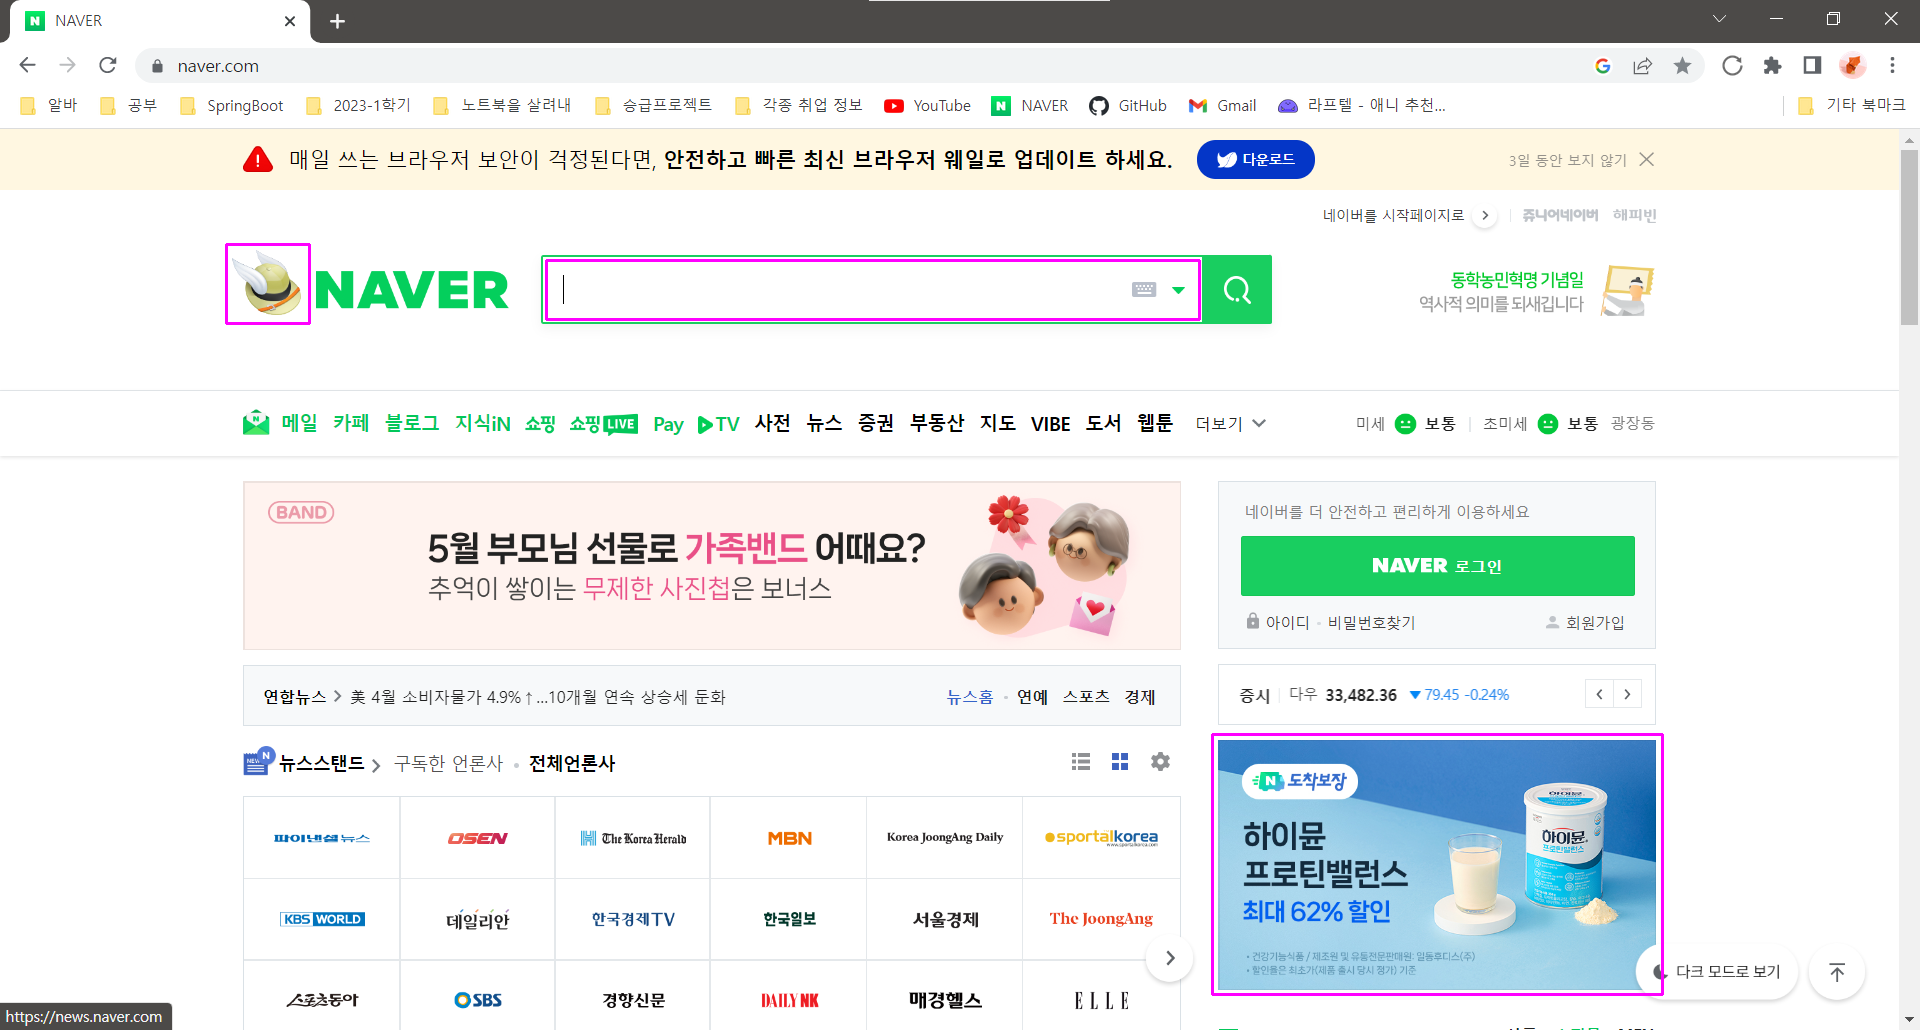
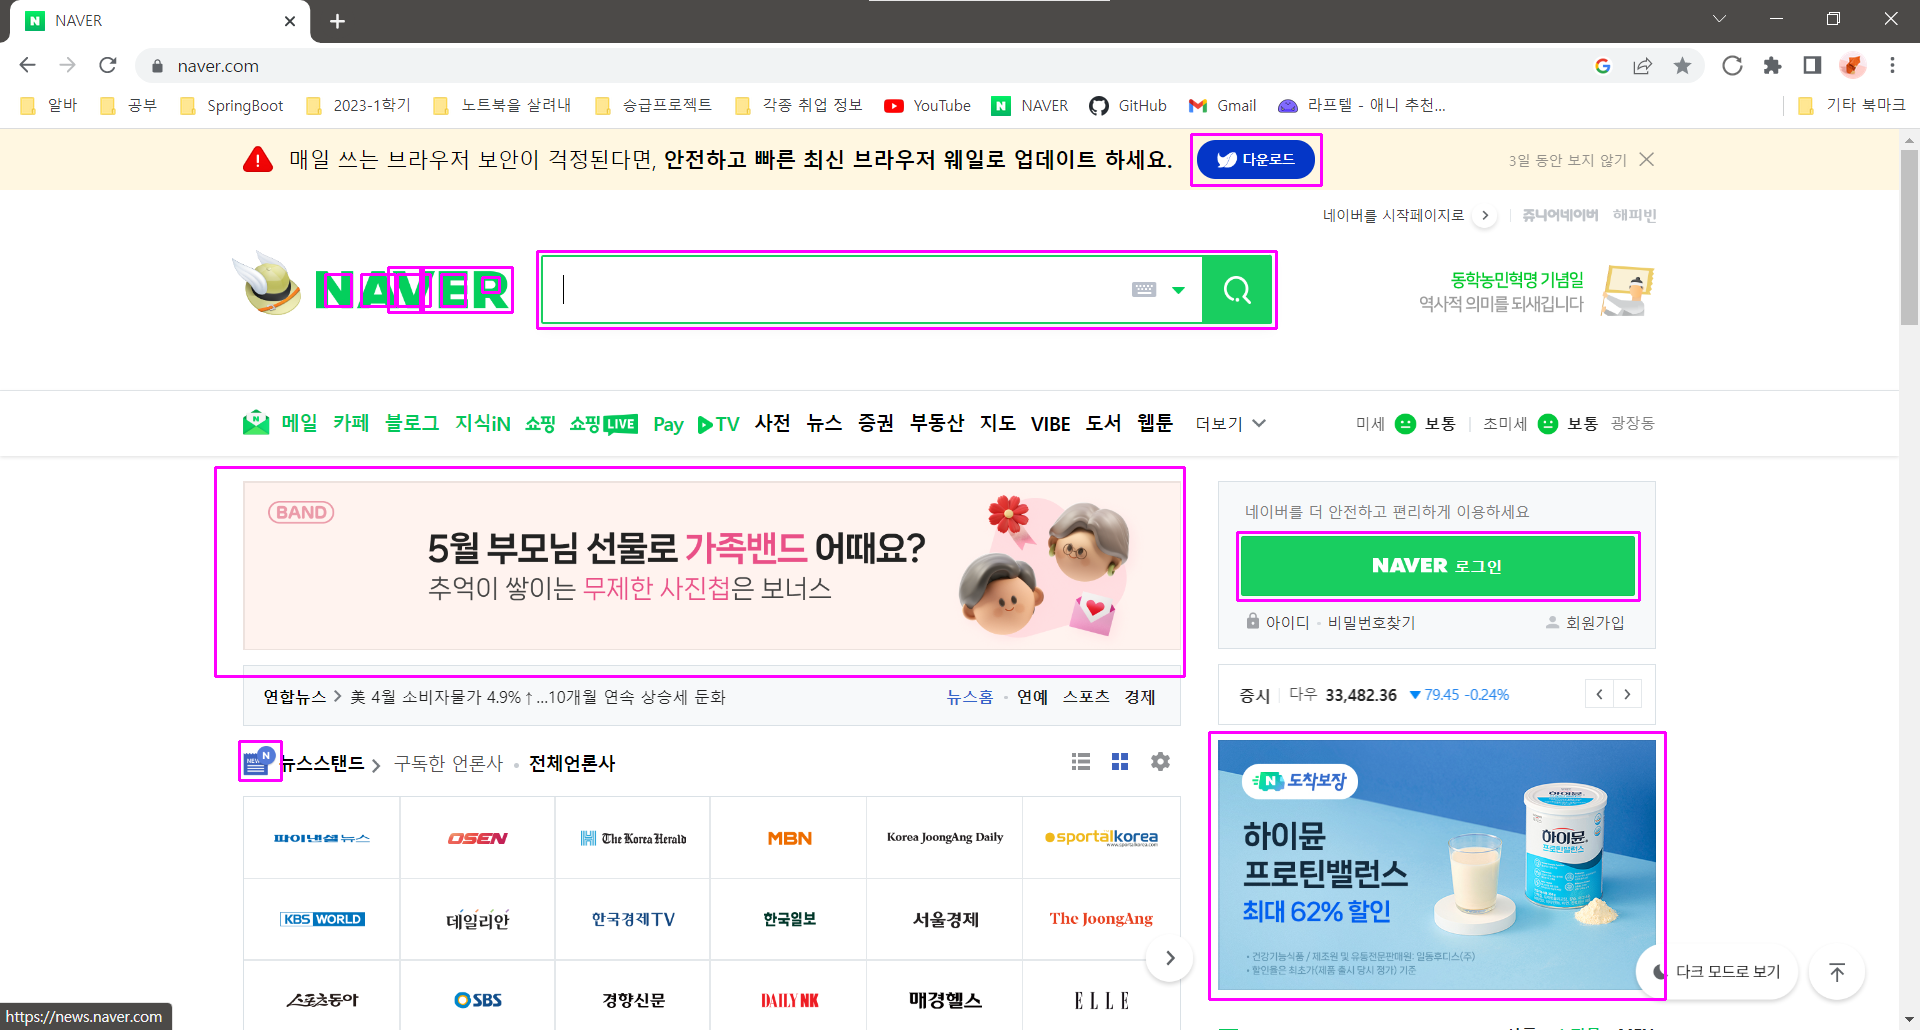
refactor : 이미지 유사도 관련 내용, 일부 오타 수정 등
- 이미지 유사도 성능을 일부 개선했습니다. 파라미터를 조정하는것만으로도 충분히 효과적인 결과를 낼 수 있었습니다. 다만, 사각형이 조금 많이 그려지는 경향이 있는데 이는 시간이 나면 수정하겠습니다.
- 이미지 유사도 결과가 지나치게 높게 나오는 것을 수정했습니다.
- login api에 일부 오타가 있어서 수정했습니다. (명세서와 다른 부분)
- 로그인 관련 내용을 DB에 담을 수 있게 수정했습니다.

diff --git a/server/apis/image_similarity_visual.py b/server/apis/image_similarity_visual.py
@@ -7,14 +7,18 @@ from skimage.metrics import structural_similarity as ssim
 from flask import request, send_file, jsonify, url_for
 from flask_restx import Namespace, Resource
 from werkzeug.utils import secure_filename
-import module.error_handler
 
+import module.error_handler
+import math
 import cv2
 import numpy as np
 import os
 
+def score_remix(_score):
+    return math.pow(_score, 4)
+
 compare = Namespace(name='compare', description="이미지 비교")
-     
+
 @compare.route('')
 class compare_image(Resource):
     def post(self):
@@ -47,12 +51,15 @@ class compare_image(Resource):
             # Compute the Structural Similarity Index (SSIM) between the two images, ensuring that the difference image is returned
             (score, diff) = ssim(grayA, grayB, full=True)
             diff = (diff * 255).astype("uint8")
-
+            
             # print only the score if you want
-            # print("SSIM: {}".format(score))
+            print("SSIM: {}".format(score))
+            
+            # 점수를 다시 정규화, result를 최종적으로 전송한다.
+            result = score_remix(score)
 
             # 이진화
-            thresh = cv2.threshold(diff, 100, 255, cv2.THRESH_BINARY_INV)[1]
+            thresh = cv2.threshold(diff, 0, 200, cv2.THRESH_BINARY_INV|cv2.THRESH_OTSU)[1]
 
             # get contours : 윤곽 잡기 -> 검은색 바탕에서 하얀색 물체 찾기
             cnts = cv2.findContours(thresh.copy(), cv2.RETR_EXTERNAL, cv2.CHAIN_APPROX_SIMPLE)
@@ -61,7 +68,7 @@ class compare_image(Resource):
             # 사각형 그리기
             for c in cnts:
                 area = cv2.contourArea(c)                           # contour의 영역 계산
-                if area > 50:                                       # count 값이 작으면 무시, 크면 박스 생성
+                if area > 40:                                       # count 값이 작으면 무시, 크면 박스 생성
                     x, y, w, h = cv2.boundingRect(c)
                     cv2.rectangle(problem, (x, y), (x + w, y + h), (255, 0, 255), 2)
                     cv2.rectangle(submit, (x, y), (x + w, y + h), (255, 0, 255), 2)
@@ -76,5 +83,5 @@ class compare_image(Resource):
             
         return jsonify({
             "image" : image_url,
-            "score" : score
+            "score" : result
         })

diff --git a/server/apis/problem.py b/server/apis/problem.py
@@ -187,8 +187,8 @@ class problem_submit(Resource):
         html_code = request.form['html_code']
         css_code = request.form['css_code']
         js_code = request.form['js_code']
-        problem_id = session.get('problem_id')          # 세션에 저장된 problem_id
-        user_id = "WinterHana"                          # 로그인 완전히 구현될 때까지 이 이름으로 고정
+        problem_id = session.get('problem_id')              # 세션에 저장된 problem_id
+        user_id = session['id']                             # 로그인 완전히 구현될 때까지 이 이름으로 고정
         submission_date = datetime.date.today()
         
         # 2. 이미지 유사도 결과를 가져오고 성공과 실패 여부를 확인한다.
@@ -208,11 +208,15 @@ class problem_submit(Resource):
             return result
         
         # 이미지 유사도 성공 / 실패 판단하기
-        if(score > 0.98): success = True
-        else: success = False
+        if(score > 0.98): 
+            success = True
+            fail_reason = '없음'
+        else: 
+            success = False
+            fail_reason = '이미지 유사도'
         
         # 3. 실패 이유를 서술한다.
-        fail_reason = '미정'
+        
         
         # 4. lighthouse_report에 코드를 전달해서 결과값을 가져온다.
         try:

diff --git a/server/apis/auth.py b/server/apis/auth.py
@@ -9,7 +9,7 @@ import module.error_handler
 
 bp = Blueprint('auth', __name__, url_prefix='/auth')
 
-@bp.route('/signup/', methods=['POST'])
+@bp.route('/signup', methods=['POST'])
 def signup():
     if request.method == 'POST':
         id = request.form['id']
@@ -40,7 +40,7 @@ def signup():
             return module.error_handler.errer_message("Bad Request")
         return module.error_handler.success_message("OK")
 
-@bp.route('/login/', methods=['POST'])
+@bp.route('/login', methods=['POST'])
 def login():
     if request.method == 'POST':
         id = request.form['id']
@@ -62,7 +62,7 @@ def login():
 
         return jsonify(user_info)
 
-@bp.route('/logout/', methods=['POST'])
+@bp.route('/logout', methods=['POST'])
 def logout():
     try:
         session.clear()
